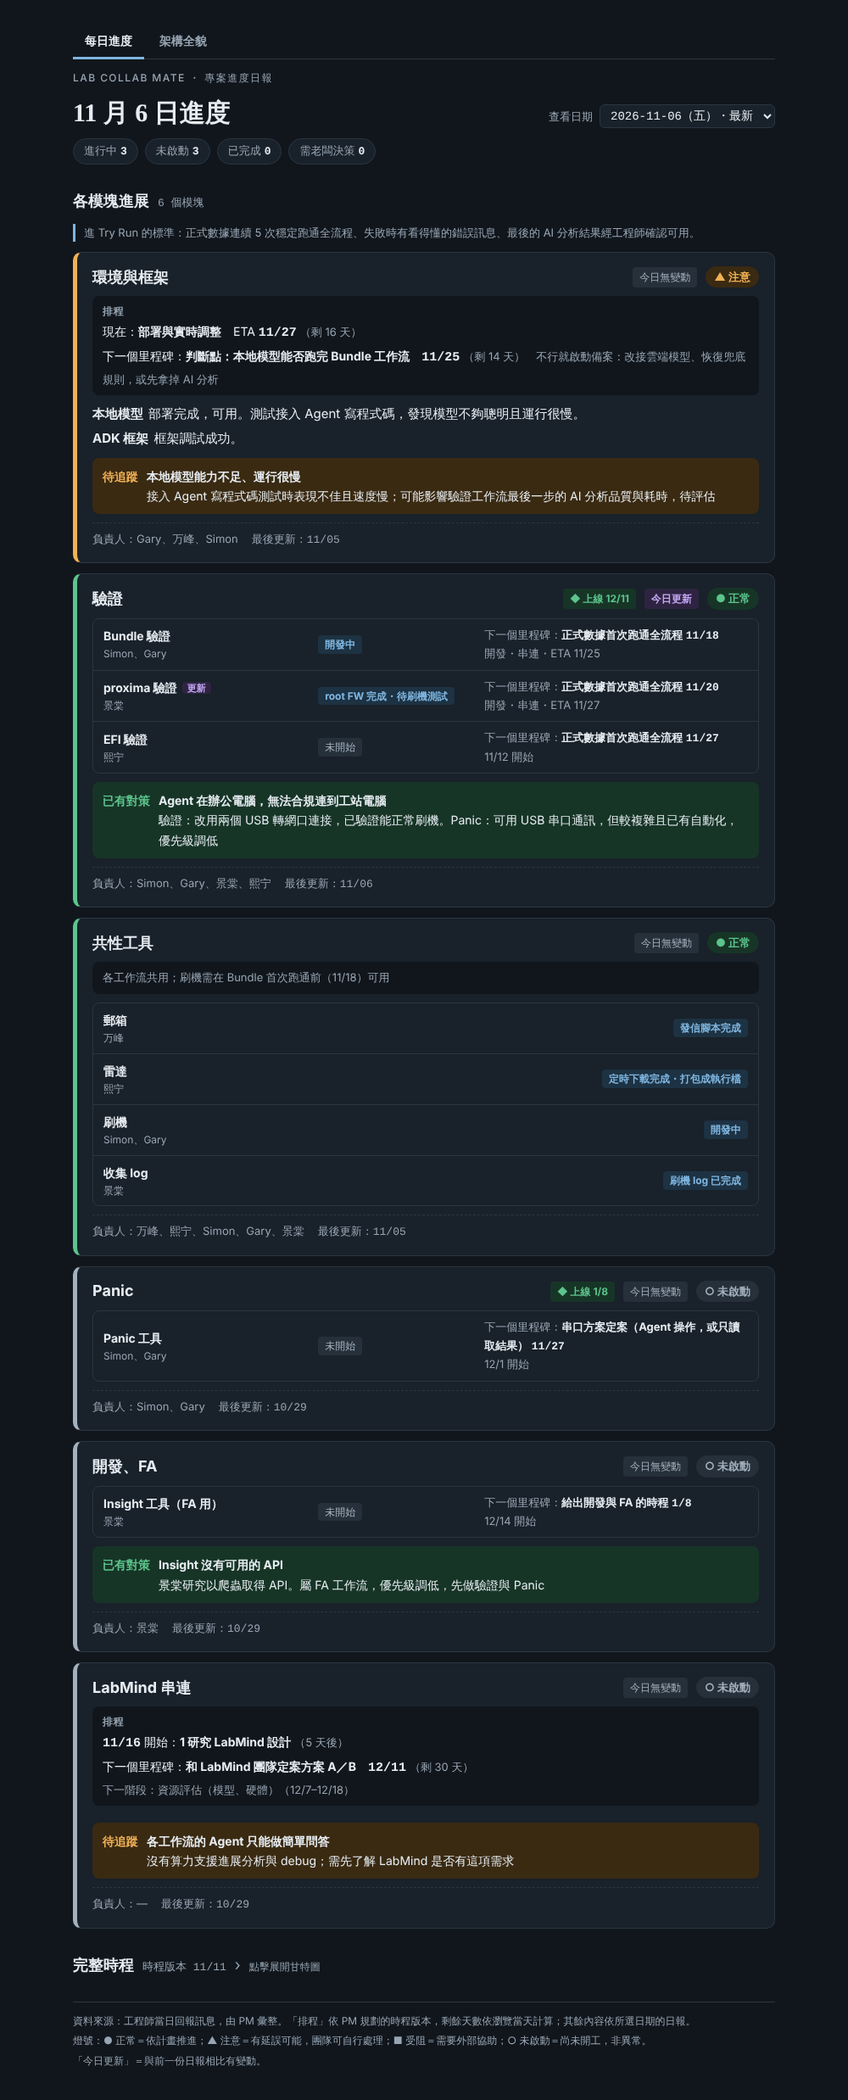
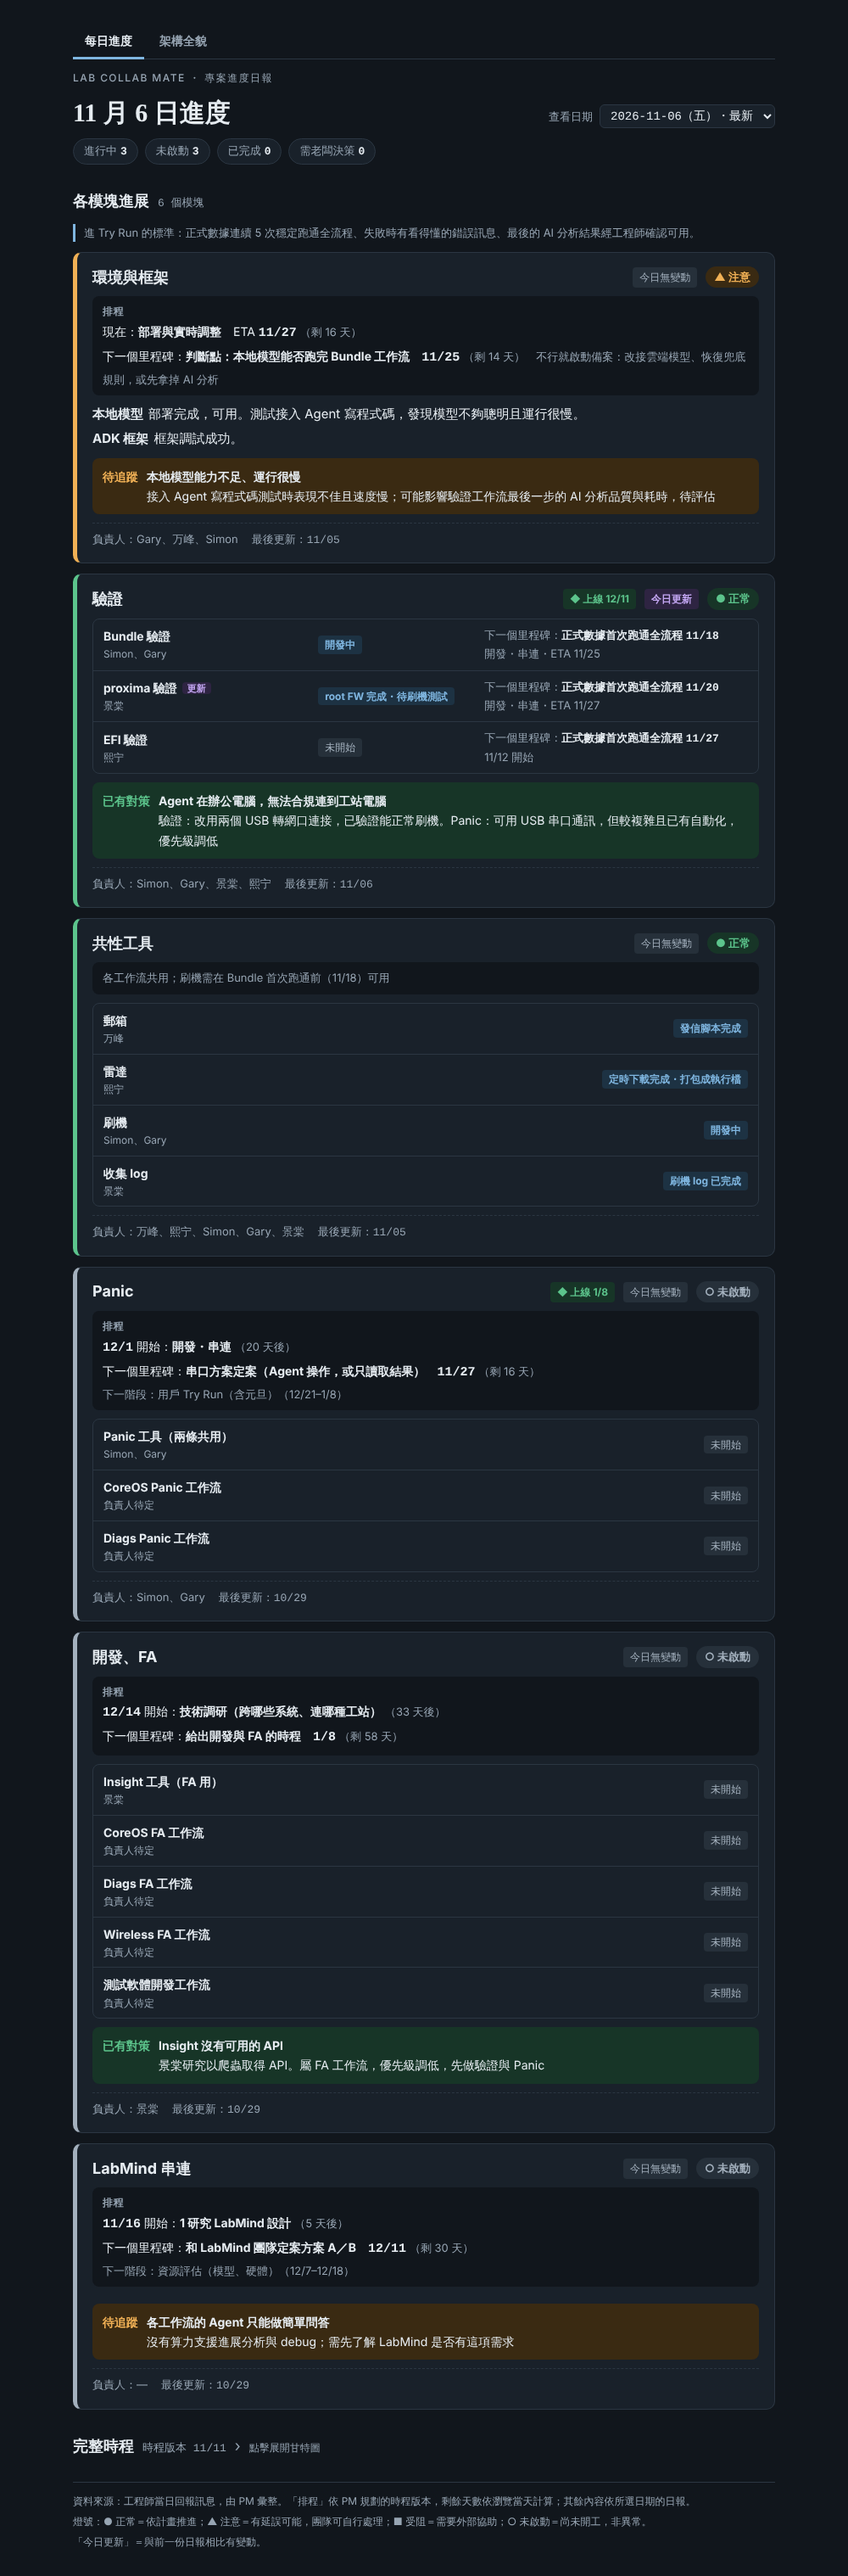
[2026-11-11_dashboard-schedule-and-arch-tab] Panic、開發與 FA 模塊補上各工作流
Claude-Session: https://claude.ai/code/session_01HY2PekBDQgaxvznQLxGhAu

diff --git a/public/index.html b/public/index.html
@@ -413,8 +413,11 @@ const MODULES = [
   {name:"環境與框架", track:"環境與框架", src:[{ws:1, label:"本地模型"}, {ws:2, label:"ADK 框架"}]},
   {name:"驗證", rows:[{ws:4, item:"Bundle 驗證", track:"Bundle 驗證"}, {ws:4, item:"proxima 驗證", track:"proxima 驗證"}, {ws:4, item:"EFI 驗證", track:"EFI 驗證"}]},
   {name:"共性工具", note:"各工作流共用；刷機需在 Bundle 首次跑通前（11/18）可用", rows:[{ws:3, item:"郵箱"}, {ws:3, item:"雷達"}, {ws:3, item:"刷機"}, {ws:3, item:"收集 log"}]},
-  {name:"Panic", rows:[{ws:3, item:"Panic", label:"Panic 工具", track:"Panic"}]},
-  {name:"開發、FA", rows:[{ws:3, item:"Insight", label:"Insight 工具（FA 用）", track:"開發、FA"}]},
+  {name:"Panic", track:"Panic", rows:[{ws:3, item:"Panic", label:"Panic 工具（兩條共用）"},
+    {item:"CoreOS Panic 工作流", owner:"負責人待定"}, {item:"Diags Panic 工作流", owner:"負責人待定"}]},
+  {name:"開發、FA", track:"開發、FA", rows:[{ws:3, item:"Insight", label:"Insight 工具（FA 用）"},
+    {item:"CoreOS FA 工作流", owner:"負責人待定"}, {item:"Diags FA 工作流", owner:"負責人待定"},
+    {item:"Wireless FA 工作流", owner:"負責人待定"}, {item:"測試軟體開發工作流", owner:"負責人待定"}]},
   {name:"LabMind 串連", track:"LabMind 串連", src:[{ws:7}]}
 ];
 const HOME = {1:"環境與框架", 2:"環境與框架", 3:"共性工具", 4:"驗證", 5:"驗證", 6:"驗證", 7:"LabMind 串連"};
@@ -424,12 +427,12 @@ const RANK = {red:4, yellow:3, green:2, done:1, idle:0};
 function modOf(r, M){
   const P = no => r.projects.find(p => p.no === no);
   const lines = (M.src||[]).map(s => { const p = P(s.ws); return {label:s.label, text:p.update, status:p.status, owners:p.owners||"", next:p.next, eta:p.eta}; });
-  const rows = (M.rows||[]).map(s => { const p = P(s.ws); const it = (p.items||[]).find(i => i[0] === s.item) || [s.item, "—"];
+  const rows = (M.rows||[]).map(s => { const p = s.ws ? P(s.ws) : {status:"idle"}; const it = (p.items||[]).find(i => i[0] === s.item) || [s.item, s.owner || "—"];
     return {...s, owner:it[1], lab:it[2] || "未開始", k:it[3] || "todo", status: it[3] && it[3] !== "todo" ? p.status : "idle"}; });
   const issues = r.projects.flatMap(p => (p.issues||[]).filter(x => (x.mod || HOME[p.no]) === M.name));
   const sts = [...lines, ...rows].map(x => x.status);
   const status = sts.every(s => s === "done") ? "done" : sts.reduce((a,b) => RANK[b] > RANK[a] ? b : a, "idle");
-  const owners = [...new Set([...lines.flatMap(l => l.owners.split("、")), ...rows.flatMap(x => x.owner.split("、"))].filter(o => o && o !== "—"))].join("、");
+  const owners = [...new Set([...lines.flatMap(l => l.owners.split("、")), ...rows.flatMap(x => x.owner.split("、"))].filter(o => o && o !== "—" && o !== "負責人待定"))].join("、");
   const sig = JSON.stringify([lines.map(l => [l.text, l.status]), rows.map(x => [x.lab, x.k]), issues.map(x => x.title + x.ask)]);
   return {lines, rows, issues, status, owners, sig};
 }
@@ -488,7 +491,7 @@ function render(){
   $("rule").textContent = PLAN.rule;
 
   $("mods").innerHTML = mods.map(x => {
-    const M = x.M, lives = [...new Set((M.rows||[]).filter(s => s.track).map(s => trackInfo(TRACK(s.track)).live).filter(Boolean).map(l => l[0]))];
+    const M = x.M, lives = [...new Set([M.track, ...(M.rows||[]).map(s => s.track)].filter(Boolean).map(n => trackInfo(TRACK(n)).live).filter(Boolean).map(l => l[0]))];
     const rowChanged = s => x.was && (() => { const w = x.was.rows.find(y => y.item === s.item); return w && (w.lab !== s.lab || w.k !== s.k); })();
     return `<article class="card" data-s="${x.status}">
       <div class="hd"><h3>${esc(M.name)}</h3>

diff --git a/work/2026-11-11_dashboard-schedule-and-arch-tab/STATUS.md b/work/2026-11-11_dashboard-schedule-and-arch-tab/STATUS.md
@@ -34,6 +34,7 @@
 | 11-11 | 進 Try Run 的標準：真機連續 5 次穩定跑通、失敗時有看得懂的錯誤訊息、AI 分析結果經工程師確認可用 |
 | 11-11 | 里程碑用詞：①「正式數據首次跑通全流程」②「正式數據連續 5 次穩定跑通全流程」；Try Run 標準同步改用「正式數據」 |
 | 11-11 | 每日進度去除重複：改成一個模塊一張卡（環境與框架、驗證、共性工具、Panic、開發與 FA、LabMind 串連），卡內合併排程（ETA、下一個里程碑）與當日進展；拿掉獨立的時程摘要卡、未啟動／已完成清單、工作流落地範圍 |
+| 11-11 | Panic 模塊補上 CoreOS Panic、Diags Panic 兩條工作流；開發、FA 模塊補上 CoreOS FA、Diags FA、Wireless FA、測試軟體開發四條工作流（負責人待定）；兩模塊的排程改放在模塊層級，不在每列重複 |
 | 11-11 | 甘特圖改為可收合，預設收合；展開狀態記在各自瀏覽器 |
 | 11-11 | 只排工作日；原版 11/28、12/12、12/26 落在週末，已修正 |
 
@@ -79,6 +80,9 @@
 7. 架構分頁方案 B 的標題仍是「待確認池」，架構頁已決議改名「承接池」，要不要一起改？
 
 ## 過程紀錄（由新到舊）
+
+### 2026-11-11（第五段）
+- 使用者指出 Panic、開發與 FA 少了工作流。依原「工作流落地範圍」補上 6 條工作流列（尚無日報資料，顯示未開始、負責人待定），與工具列放在同一張卡。
 
 ### 2026-11-11（第四段）
 - 使用者要求：Try Run 標準也用「正式數據」；甘特圖可收合；每日進度不要重複元素、能合併就合併。
